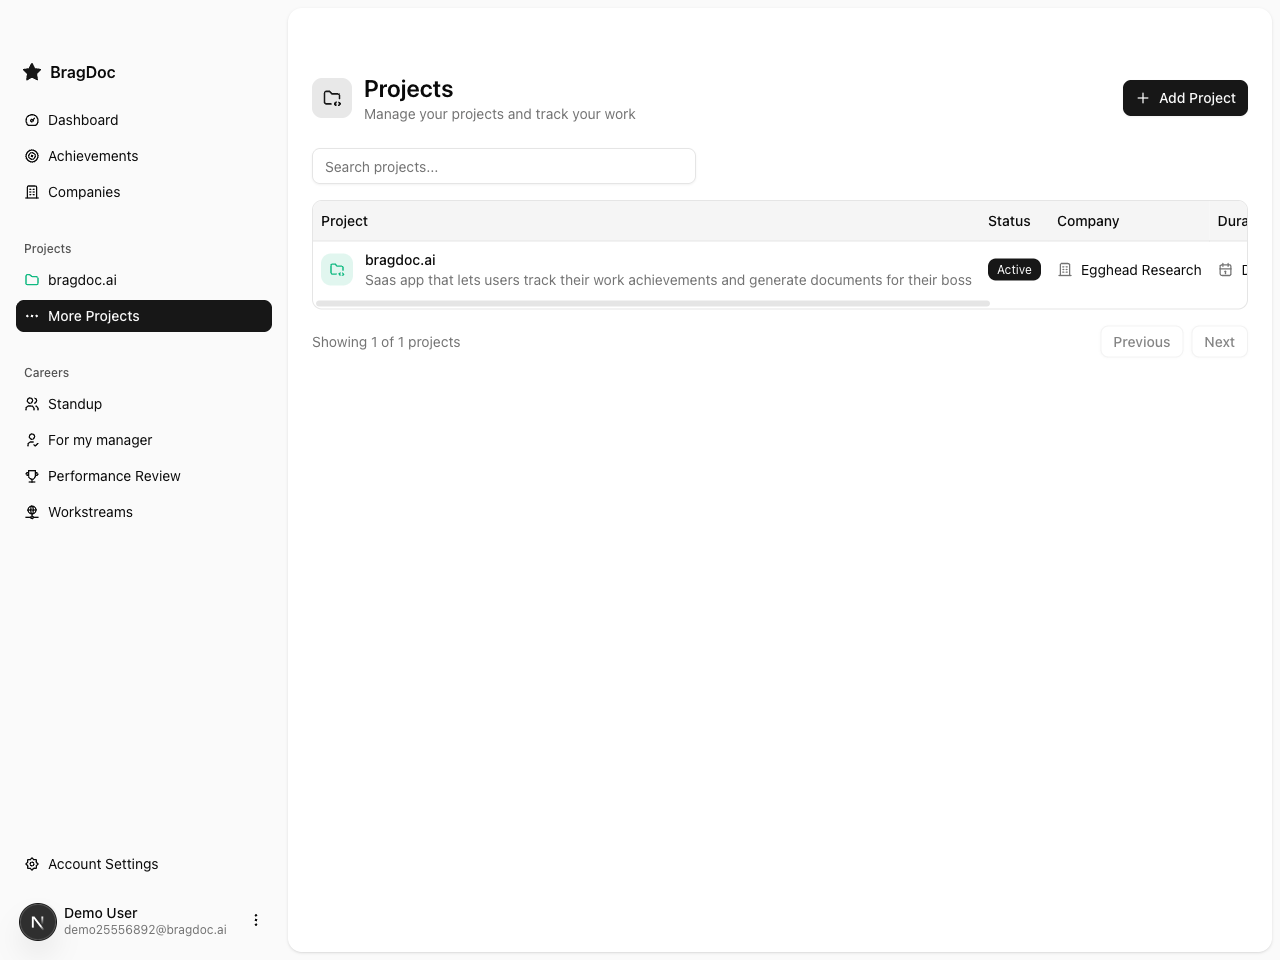
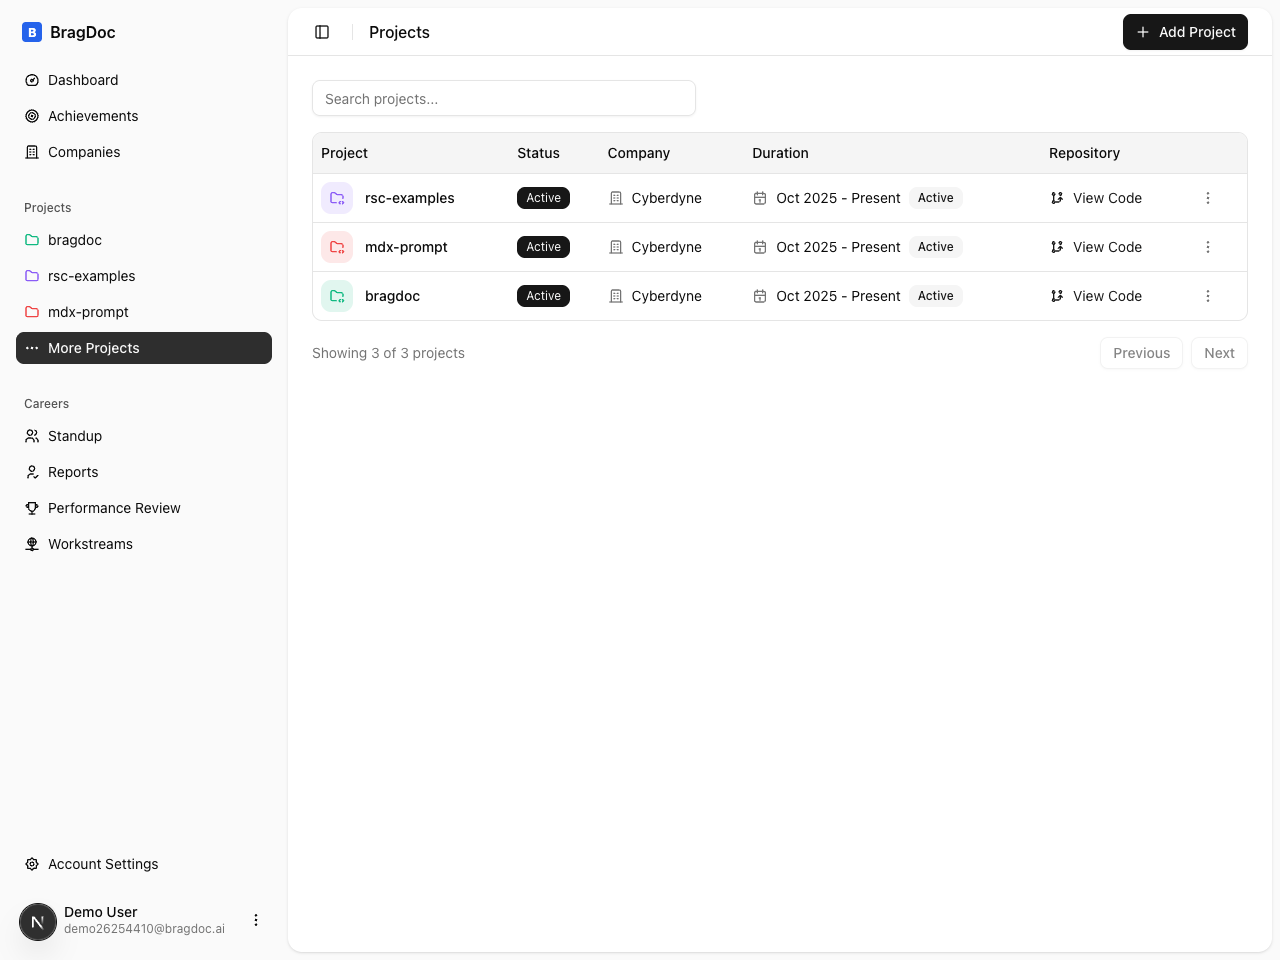
better product screenshots

diff --git a/apps/web/components/demo-mode-layout.tsx b/apps/web/components/demo-mode-layout.tsx
@@ -15,8 +15,11 @@ export function DemoModeLayout({ children }: { children: React.ReactNode }) {
   // Type cast to access custom Better Auth field (level is an additionalField in config)
   const isDemoUser = (session?.user as { level?: string })?.level === 'demo';
 
-  // The demo banner height
-  const bannerHeight = isDemoUser ? '40px' : '0px';
+  // Check if banner is suppressed (for screenshots, etc.)
+  const isSuppressed = process.env.NEXT_PUBLIC_SUPRESSED_DEMO_BANNER === 'true';
+
+  // The demo banner height - only set height if demo user AND not suppressed
+  const bannerHeight = isDemoUser && !isSuppressed ? '40px' : '0px';
 
   useEffect(() => {
     // Set CSS custom property on document root

diff --git a/.claude/agents/screenshotter.md b/.claude/agents/screenshotter.md
@@ -94,7 +94,44 @@ Request mentions or implies:
 
 ## Web Application Screenshot Workflow
 
-### 1. Session Initialization
+### 1. Environment Setup
+
+**CRITICAL: Before taking any UI screenshots, ensure the browser window is sized correctly and the demo banner is hidden.**
+
+**Browser Window Size:**
+
+All UI screenshots for marketing and documentation MUST use a consistent browser window size of **1280x960**. This ensures consistency across all marketing materials.
+
+Use `mcp__playwright__browser_resize` immediately after starting:
+
+```json
+{
+  "width": 1280,
+  "height": 960
+}
+```
+
+**Hide Demo Mode Banner:**
+
+The demo mode banner appears at the top of all pages when using demo accounts. For clean marketing screenshots, this MUST be suppressed.
+
+Before taking screenshots, use `browser_evaluate` to set the environment variable:
+
+```javascript
+// Suppress demo banner for clean screenshots
+window.localStorage.setItem('NEXT_PUBLIC_SUPRESSED_DEMO_BANNER', 'true');
+```
+
+**Note:** This is different from the server-side environment variable. The banner component checks `process.env.NEXT_PUBLIC_SUPRESSED_DEMO_BANNER`, but for browser-based screenshots, we can simulate this by setting a localStorage flag that the screenshotter can check. However, the **better approach** is to ensure `NEXT_PUBLIC_SUPRESSED_DEMO_BANNER=true` is set in the `.env.local` file before starting the dev server.
+
+**Recommended Workflow:**
+
+1. Verify `.env.local` contains `NEXT_PUBLIC_SUPRESSED_DEMO_BANNER=true`
+2. Ensure dev server is running with this environment variable
+3. Resize browser to 1280x960
+4. Proceed with demo account creation and screenshot capture
+
+### 2. Session Initialization
 
 ALWAYS begin by creating a demo account:
 
@@ -557,7 +594,7 @@ Based on BragDoc's technical architecture:
 2. **Clear focus**: The primary subject should be obvious and well-framed
 3. **Complete information**: Don't cut off important text, buttons, or labels
 4. **Professional data**: If showing populated states, use realistic, professional-looking content
-5. **Consistent viewport**: Use standard desktop viewport (1280x720 or similar) unless requested otherwise
+5. **Consistent viewport**: **ALWAYS use 1280x960 browser window size** for all marketing/documentation screenshots
 
 ### When to Take Multiple Screenshots
 
@@ -717,12 +754,15 @@ For each screenshot, briefly describe:
 
 **For Web Application Screenshots:**
 
+- [ ] Browser window resized to 1280x960 (CRITICAL for marketing screenshots)
+- [ ] Demo banner suppressed (NEXT_PUBLIC_SUPRESSED_DEMO_BANNER=true in .env.local OR via browser_evaluate)
 - [ ] Demo account created successfully
 - [ ] Navigated to correct location via UI
 - [ ] Visual state is as requested (empty/populated/interaction)
 - [ ] Scrollbars hidden using browser_evaluate before screenshot
 - [ ] Screenshot is clear and well-composed
 - [ ] No scrollbars visible in the captured image
+- [ ] No demo banner visible in the captured image
 - [ ] File saved with descriptive name in ./screenshots/
 - [ ] Absolute file path provided in output
 - [ ] Brief description of what's captured included
